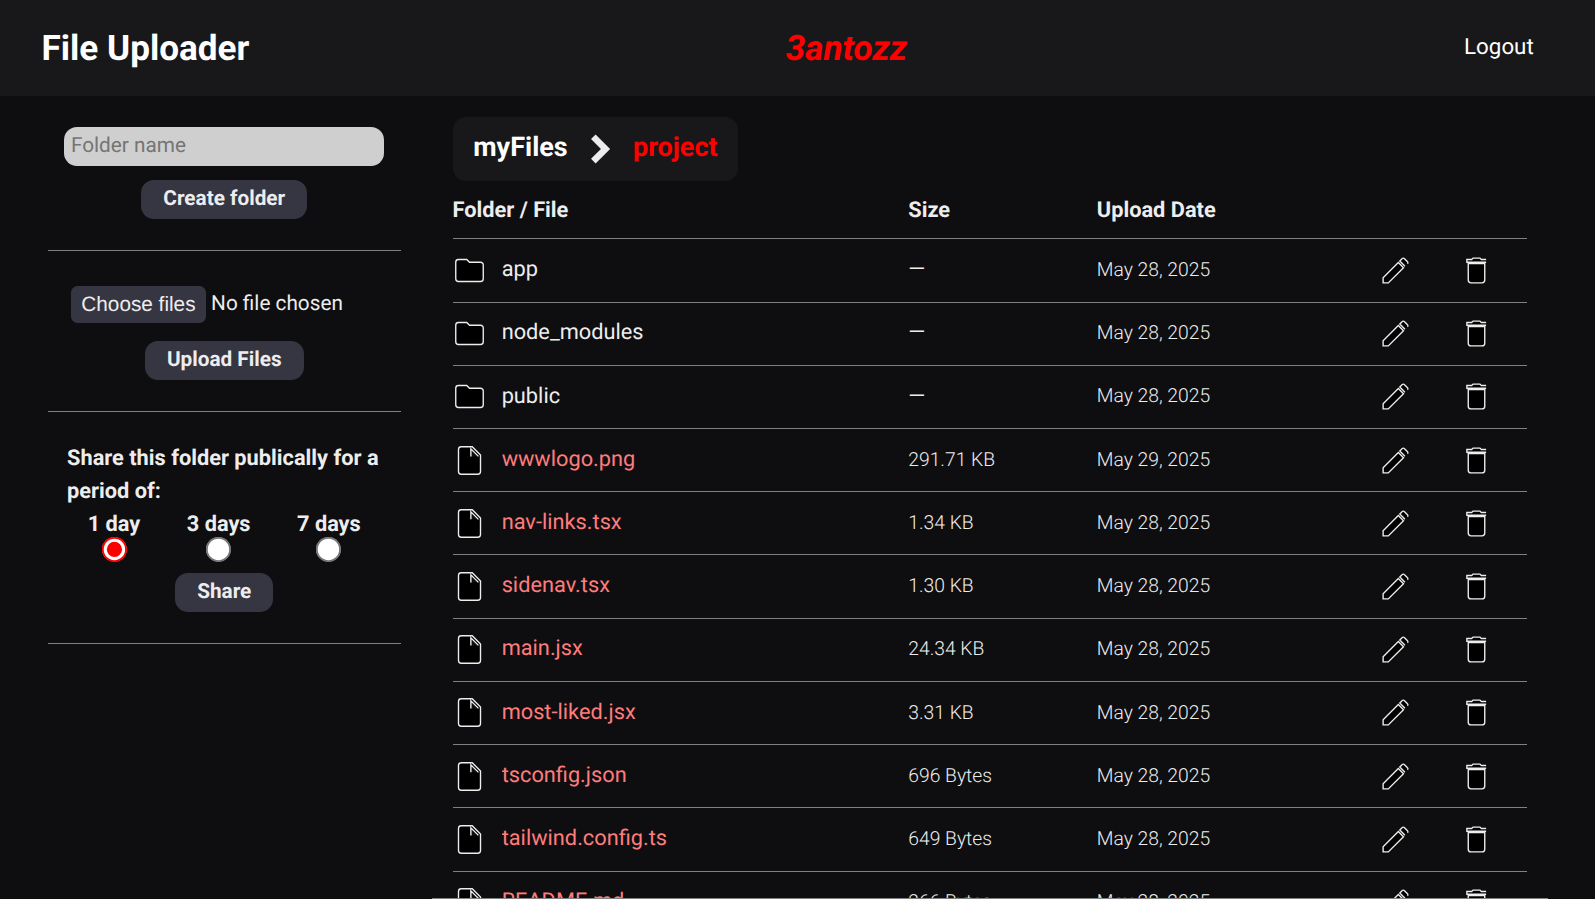
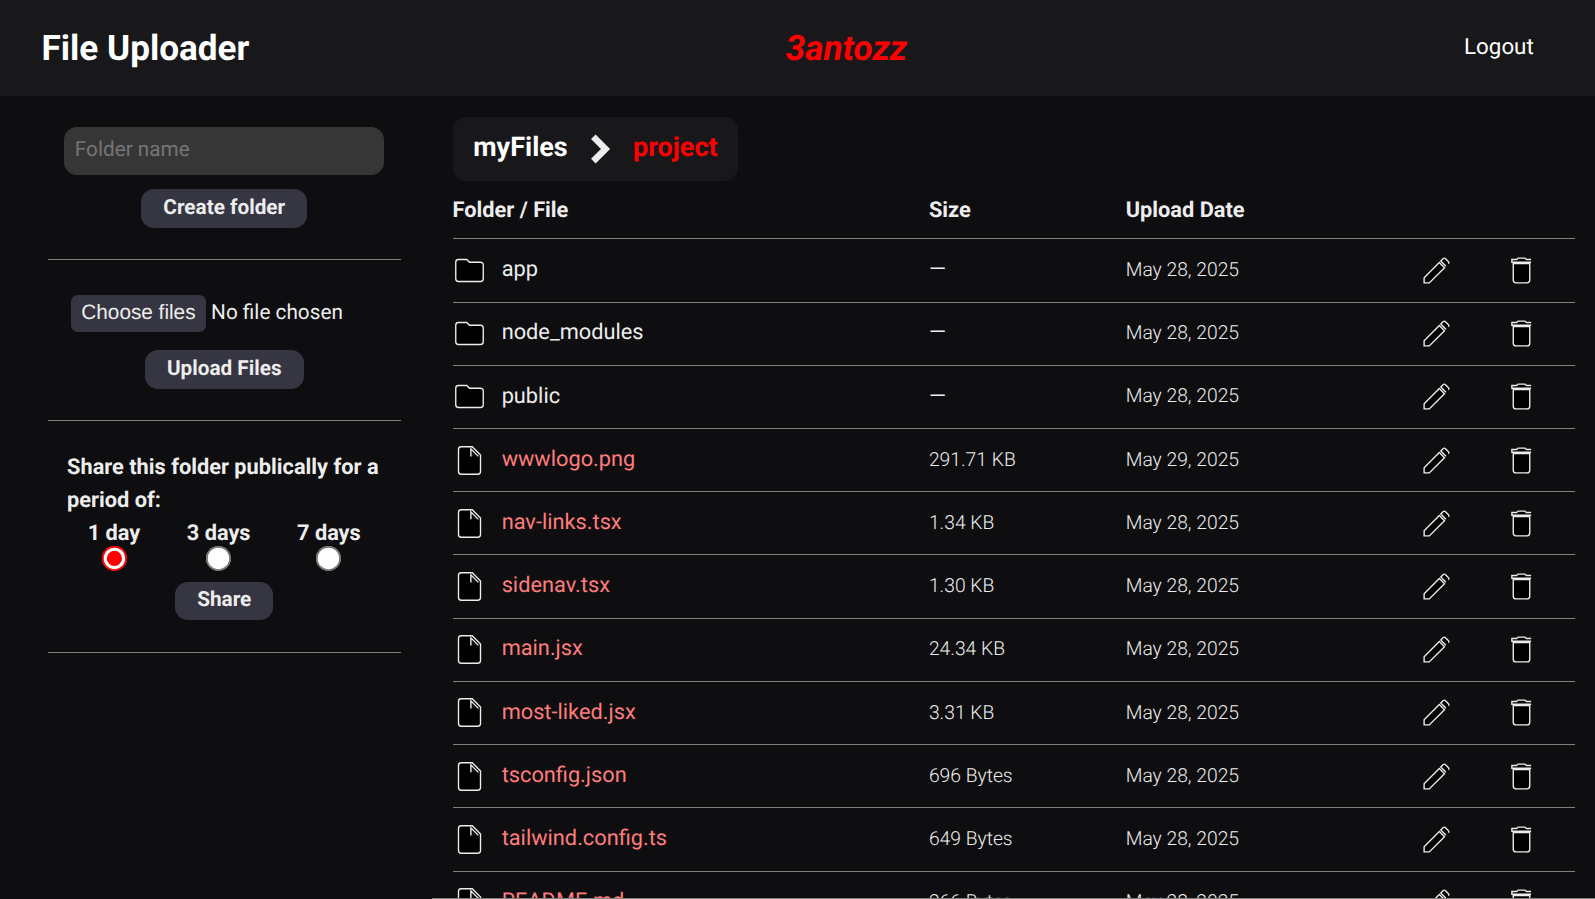
styling changes

diff --git a/public/styles/index.css b/public/styles/index.css
@@ -1,5 +1,6 @@
 main {
     padding: 0 3vw;
+    padding-right: 0;
     display: flex;
     gap: 1.5rem;
     overflow-y: auto;
@@ -237,6 +238,11 @@ legend {
     transform: scale(1.5);
     accent-color: red;
     cursor: pointer;
+    transition: transform 200ms ease;
+}
+
+.forms form:last-of-type input:hover {
+    transform: scale(2);
 }
 
 .forms form button, #copy-link {
@@ -261,8 +267,10 @@ legend {
 }
 
 input[type="text"] {
-    background-color: rgb(208, 207, 207);
-
+    background-color: #373636;
+    color: inherit;
+    border: 0;
+    padding: 0.4rem 0.5rem;
 }
 
 input {
@@ -272,7 +280,7 @@ input {
 }
 
 
-input:focus, button:focus {
+input[type="text"]:focus, button:focus {
     outline-color: red;
     outline-style: solid;
     outline-width: 3px;

diff --git a/public/styles/forms.css b/public/styles/forms.css
@@ -4,12 +4,20 @@ main {
     align-items: center;
     padding: 2rem 2rem;
     gap: 1rem;
+    width: 100%;
+    max-width: 25rem;
+    margin: auto;
+}
+
+em {
+    color: red;
 }
 
 form {
     padding: 1rem;
     border: 2px solid grey;
     border-radius: 15px;
+    width: 100%;
 }
 
 ul {
@@ -41,11 +49,12 @@ form button:hover {
 
 input, textarea {
     width: 100%;
-    background-color: rgb(208, 207, 207);
+    background-color: #373636;
+    color: inherit;
+    border: 0;
     border-radius: 10px;
     font-size: 1.2rem;
     padding: 3px 5px;
-    font-weight: bold;
 }
 
 textarea {

diff --git a/README.md b/README.md
@@ -4,6 +4,8 @@ Google drive-like storage application created with ExpressJS and EJS.
 
 ![Interface](./public//showcase/interface.png)
 
+![Login Page](./public//showcase/login.png)
+
 # [Live Preview](https://file-uploader-ifat.onrender.com/)
 
 > [!NOTE]
